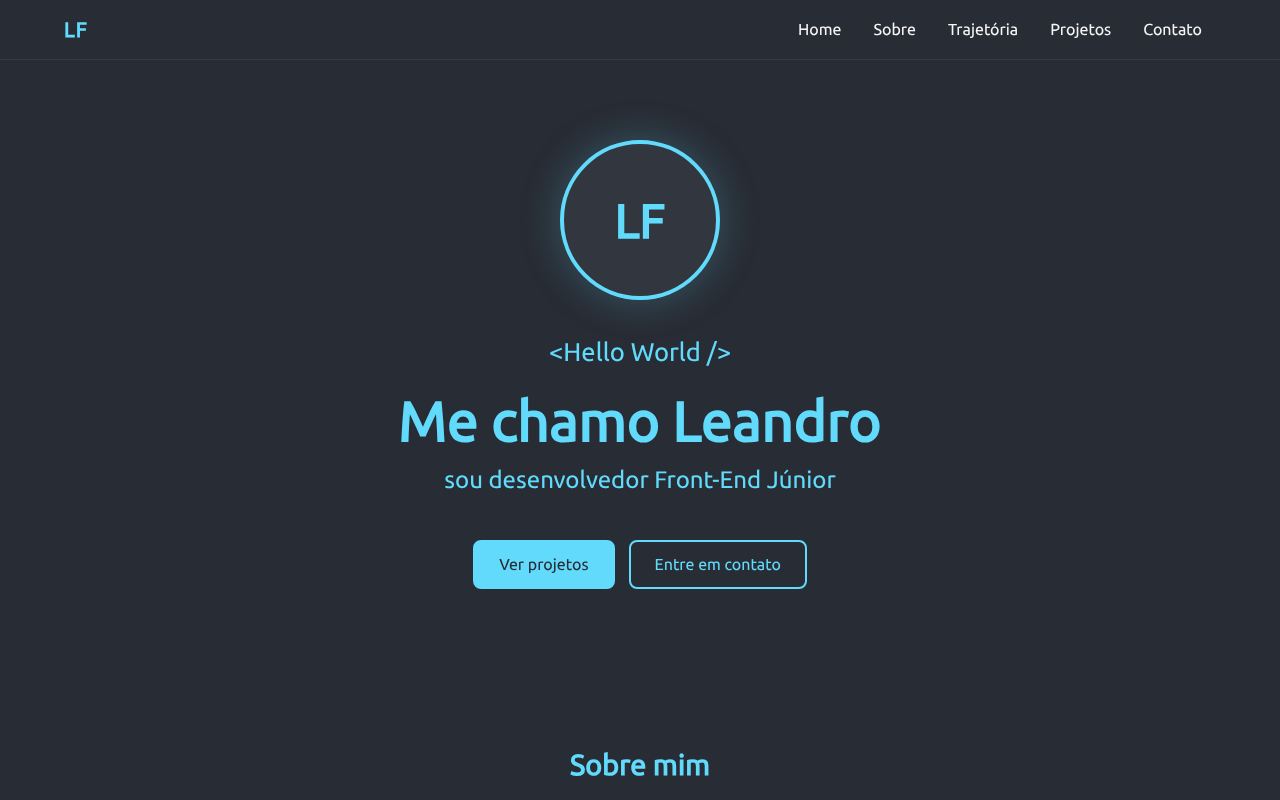
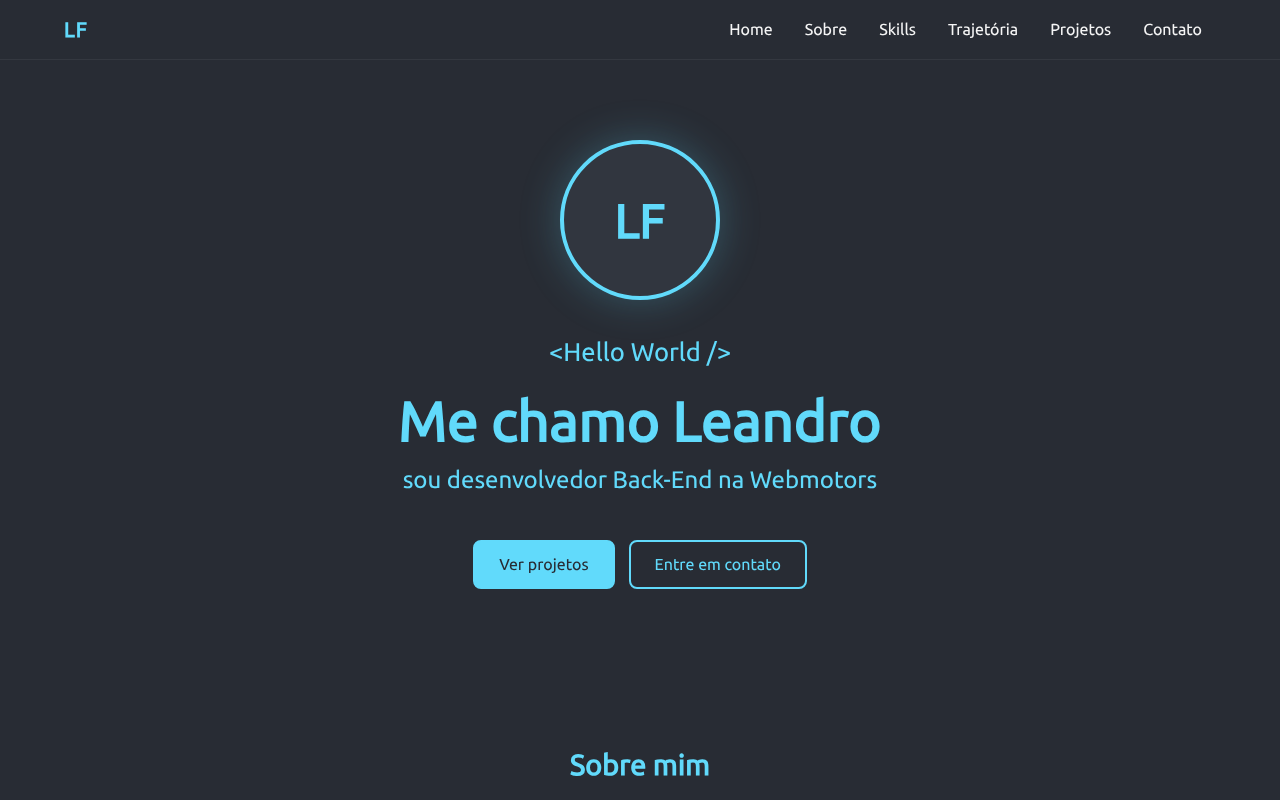
Atualiza perfil: Back-End C#/.NET na Webmotors, skills e projetos
Claude-Session: https://claude.ai/code/session_014nFbajz6NztTYpXtCan5NP

diff --git a/src/App.js b/src/App.js
@@ -6,6 +6,8 @@ import SupportIcon from '@material-ui/icons/HeadsetMic';
 import SchoolIcon from '@material-ui/icons/School';
 import WorkIcon from '@material-ui/icons/Work';
 import StorageIcon from '@material-ui/icons/Storage';
+import CloudIcon from '@material-ui/icons/Cloud';
+import DatabaseIcon from '@material-ui/icons/Dns';
 
 import './App.css';
 
@@ -16,6 +18,7 @@ const LINKEDIN_URL = 'https://www.linkedin.com/in/leandrofeitoza';
 const NAV = [
   { href: '#home', label: 'Home' },
   { href: '#sobre', label: 'Sobre' },
+  { href: '#skills', label: 'Skills' },
   { href: '#trajetoria', label: 'Trajetória' },
   { href: '#projetos', label: 'Projetos' },
   { href: '#contato', label: 'Contato' },
@@ -28,28 +31,29 @@ const TIMELINE = [
     text: 'Larga experiência profissional na área de suporte técnico.',
   },
   {
-    icon: <CodeIcon />,
-    title: '2020 · A virada para o desenvolvimento Web',
-    text: 'Decidi mudar de área e começar a construir uma carreira como desenvolvedor.',
+    icon: <SchoolIcon />,
+    title: '2020 · Virada para o desenvolvimento Web',
+    text: 'Em junho de 2020 comecei a estudar desenvolvimento web na Trybe e concluí o curso Full-Stack.',
   },
   {
-    icon: <SchoolIcon />,
-    title: 'Junho de 2020 · Início na Trybe',
-    text: 'Comecei a estudar desenvolvimento web na Trybe.',
+    icon: <CodeIcon />,
+    title: 'Migração para C# e .NET',
+    text: 'Deixei de trabalhar com JavaScript e Node e migrei para o desenvolvimento Back-End com C#.',
   },
   {
     icon: <WorkIcon />,
-    title: 'Dezembro de 2020 · Desenvolvedor Front-End Júnior',
-    text: 'Concluí a formação como Desenvolvedor Front-End Júnior.',
-  },
-  {
-    icon: <StorageIcon />,
-    title: '2021 · Rumo ao Full-Stack',
-    text: 'Planejei estudar Back-End e Ciência da Computação para me formar como desenvolvedor Full-Stack.',
+    title: 'Desde 2021 · Desenvolvedor Back-End na Webmotors',
+    text: 'Trabalho com desenvolvimento Back-End em C# e .NET, bancos relacionais e cloud AWS.',
   },
 ];
 
-const BUILT_WITH = ['React', 'Material-UI', 'CSS', 'GitHub Pages'];
+const SKILLS = [
+  { icon: <StorageIcon />, title: 'Back-End', items: ['C#', '.NET'] },
+  { icon: <CloudIcon />, title: 'Cloud', items: ['AWS'] },
+  { icon: <DatabaseIcon />, title: 'Bancos relacionais', items: ['SQL Server', 'PostgreSQL'] },
+];
+
+const PROJECTS = ['yake-shave', 'webapi-default'];
 
 function Avatar() {
   const [failed, setFailed] = useState(false);
@@ -87,7 +91,7 @@ function App() {
           <Avatar />
           <h3>{'<Hello World />'}</h3>
           <h1>Me chamo Leandro</h1>
-          <h2>sou desenvolvedor Front-End Júnior</h2>
+          <h2>sou desenvolvedor Back-End na Webmotors</h2>
           <div className="hero-actions">
             <a className="btn btn-primary" href="#projetos">Ver projetos</a>
             <a className="btn" href="#contato">Entre em contato</a>
@@ -98,17 +102,31 @@ function App() {
           <h2 className="section-title">Sobre mim</h2>
           <div className="wraper-text-sobre">
             <p>
-              Seja bem-vindo ao meu site pessoal. Fique à vontade para explorar e conhecer a seção Projetos, onde você confere o que desenvolvi, e a seção Sobre, para que me conheça um pouco mais.
+              Seja bem-vindo ao meu site pessoal. Fique à vontade para explorar meus projetos e conhecer um pouco mais da minha trajetória.
             </p>
             <p>
-              Depois de uma larga experiência profissional como Suporte Técnico, no ano de 2020 resolvi mudar para a área de desenvolvimento Web.
+              Depois de uma larga experiência profissional como Suporte Técnico, em 2020 resolvi mudar para a área de desenvolvimento Web. Comecei a estudar na Trybe em junho de 2020 e concluí o curso Full-Stack.
             </p>
             <p>
-              Em junho de 2020 comecei a estudar desenvolvimento web na Trybe e, em dezembro de 2020, me formei como Desenvolvedor Front-End Júnior.
+              Desde então deixei de trabalhar com JavaScript e Node e migrei para o C#. Desde 2021 atuo como desenvolvedor Back-End na Webmotors, com C# e .NET, bancos relacionais (SQL Server e PostgreSQL) e cloud AWS.
             </p>
-            <p>
-              Procuro uma oportunidade de iniciar a carreira de desenvolvedor e continuar aperfeiçoando as minhas habilidades de Dev.
-            </p>
+          </div>
+        </section>
+
+        <section id="skills" className="section-skills">
+          <h2 className="section-title">O que eu domino</h2>
+          <div className="cards">
+            {SKILLS.map(({ icon, title, items }) => (
+              <article key={title} className="card">
+                <span className="skill-icon">{icon}</span>
+                <h3>{title}</h3>
+                <ul className="tags">
+                  {items.map((item) => (
+                    <li key={item}>{item}</li>
+                  ))}
+                </ul>
+              </article>
+            ))}
           </div>
         </section>
 
@@ -130,18 +148,15 @@ function App() {
         <section id="projetos" className="section-projetos">
           <h2 className="section-title">Projetos</h2>
           <div className="cards">
-            <article className="card">
-              <h3>Este site</h3>
-              <p>Meu site pessoal, feito com React e Material-UI e publicado no GitHub Pages.</p>
-              <ul className="tags">
-                {BUILT_WITH.map((tag) => (
-                  <li key={tag}>{tag}</li>
-                ))}
-              </ul>
-              <a className="card-link" href={`${GITHUB_URL}/${GITHUB_USER.toLowerCase()}.github.io`} target="_blank" rel="noreferrer">
-                Ver código
-              </a>
-            </article>
+            {PROJECTS.map((name) => (
+              <article key={name} className="card">
+                <h3>{name}</h3>
+                <p>Repositório no GitHub.</p>
+                <a className="card-link" href={`${GITHUB_URL}/${name}`} target="_blank" rel="noreferrer">
+                  Ver código
+                </a>
+              </article>
+            ))}
             <article className="card card-more">
               <h3>Mais projetos</h3>
               <p>Os demais projetos que desenvolvi estão no meu GitHub.</p>

diff --git a/public/index.html b/public/index.html
@@ -7,7 +7,7 @@
     <meta name="theme-color" content="#282c34" />
     <meta
       name="description"
-      content="Site pessoal de Leandro Feitoza, desenvolvedor Front-End Júnior."
+      content="Site pessoal de Leandro Feitoza, desenvolvedor Back-End."
     />
     <link rel="apple-touch-icon" href="%PUBLIC_URL%/logo192.png" />
     <!--
@@ -29,7 +29,7 @@
       work correctly both with client-side routing and a non-root public URL.
       Learn how to configure a non-root public URL by running `npm run build`.
     -->
-    <title>Leandro Feitoza | Desenvolvedor Front-End</title>
+    <title>Leandro Feitoza | Desenvolvedor Back-End</title>
   </head>
   <body>
     <noscript>You need to enable JavaScript to run this app.</noscript>

diff --git a/src/App.css b/src/App.css
@@ -320,3 +320,7 @@ section {
     text-align: left;
   }
 }
+
+.skill-icon {
+  color: var(--accent);
+}

diff --git a/README.md b/README.md
@@ -10,9 +10,20 @@
 
 ## 👋 Olá, eu sou o Leandro
 
-Desenvolvedor Front-End Júnior. Depois de uma larga experiência profissional como **Suporte Técnico**, em 2020 resolvi mudar para a área de desenvolvimento Web. Em junho de 2020 comecei a estudar na **Trybe** e, em dezembro de 2020, me formei como Desenvolvedor Front-End Júnior.
+Desenvolvedor **Back-End** na **Webmotors** desde 2021. Depois de uma larga experiência profissional como Suporte Técnico, em 2020 resolvi mudar para a área de desenvolvimento Web: estudei na Trybe, concluí o curso Full-Stack e, desde então, deixei de trabalhar com JavaScript e Node e migrei para o **C#**.
 
-Procuro uma oportunidade de iniciar a carreira de desenvolvedor e continuar aperfeiçoando as minhas habilidades de Dev.
+## 🧰 O que eu domino
+
+![C#](https://img.shields.io/badge/C%23-239120?style=for-the-badge&logo=csharp&logoColor=white)
+![.NET](https://img.shields.io/badge/.NET-512BD4?style=for-the-badge&logo=dotnet&logoColor=white)
+![AWS](https://img.shields.io/badge/AWS-232F3E?style=for-the-badge&logo=amazonaws&logoColor=white)
+![SQL Server](https://img.shields.io/badge/SQL%20Server-CC2927?style=for-the-badge&logo=microsoftsqlserver&logoColor=white)
+![PostgreSQL](https://img.shields.io/badge/PostgreSQL-4169E1?style=for-the-badge&logo=postgresql&logoColor=white)
+
+## ⭐ Projetos que mais gosto
+
+- [**yake-shave**](https://github.com/LeandroFeitozaGnu/yake-shave)
+- [**webapi-default**](https://github.com/LeandroFeitozaGnu/webapi-default)
 
 ## 🖥 O site
 
@@ -26,12 +37,12 @@ Este repositório é o código do meu site pessoal: **https://leandrofeitozagnu.
 
 </div>
 
-O site tem as seções **Home**, **Sobre**, **Trajetória**, **Projetos** e **Contato**, é responsivo e usa a foto de perfil do meu GitHub.
+O site tem as seções **Home**, **Sobre**, **Skills**, **Trajetória**, **Projetos** e **Contato**, é responsivo e usa a foto de perfil do meu GitHub.
 
 ## 🧭 Trajetória
 
 ```text
-Suporte Técnico ──▶ 2020: virada para Web ──▶ Jun/2020: Trybe ──▶ Dez/2020: Front-End Júnior ──▶ 2021: rumo ao Full-Stack
+Suporte Técnico ──▶ 2020: Trybe (Full-Stack) ──▶ Migração para C# ──▶ 2021 até hoje: Back-End na Webmotors
 ```
 
 ## 🛠 Feito com
